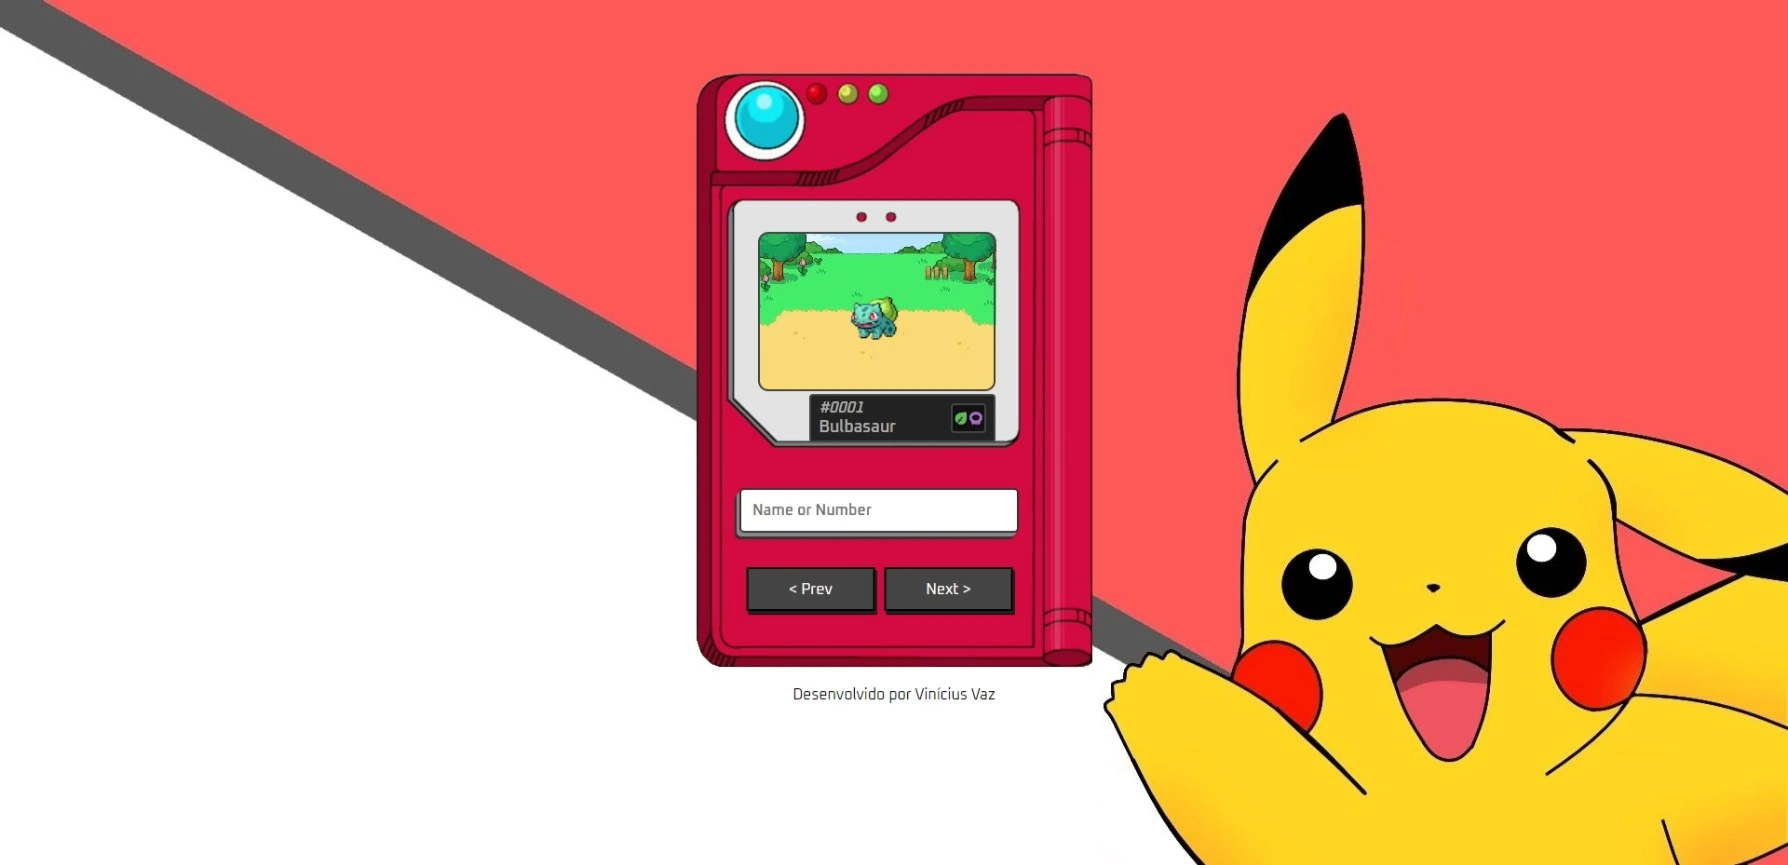
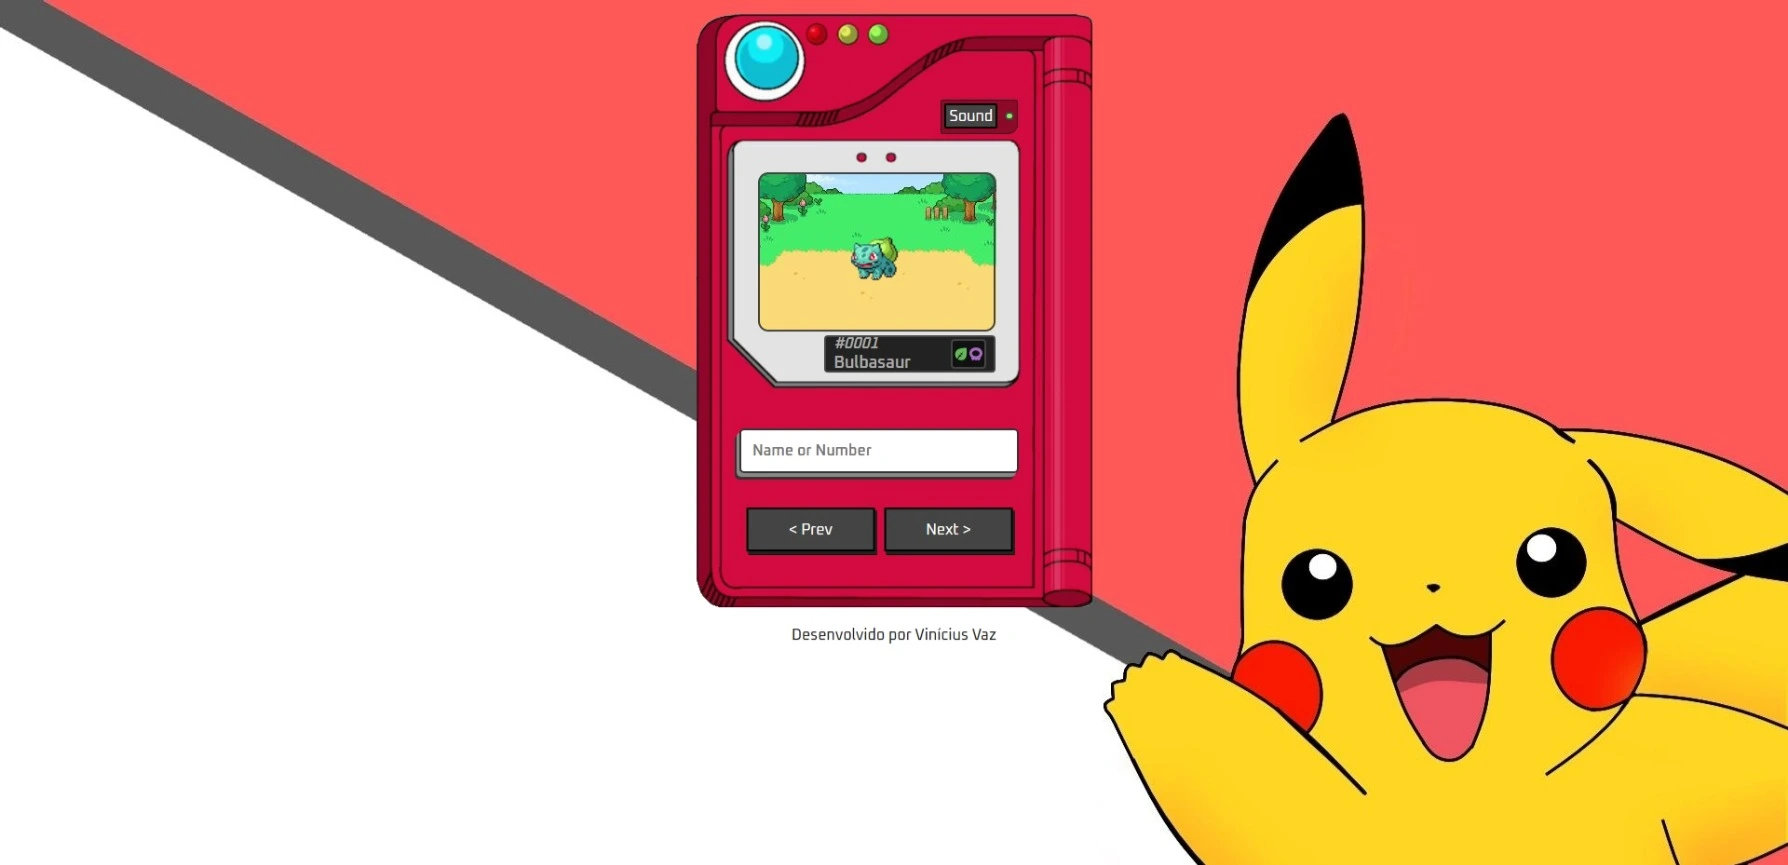
screenshot/readme updated

Changed region(s): [[0.3691, 0.0, 0.6152, 0.8116]]

diff --git a/js/pokedex.js b/js/pokedex.js
@@ -10,10 +10,8 @@ const input = document.querySelector('.input-search');
 const buttonPrev = document.querySelector('.bttn-prev');
 const buttonNext = document.querySelector('.bttn-next');
 
-
 let searchedPokemon;
 let volume = 0.1;
-
 
 const fetchPokemon = async (pokemon) => {
 	const APIResponse = await fetch(
@@ -26,7 +24,6 @@ const fetchPokemon = async (pokemon) => {
 		return data;
 	}
 };
-
 
 const playCrieOnRender = (pokemon) => {
 	let crie = pokemon['cries']['latest'];
@@ -57,7 +54,6 @@ const pokemonNotFounded = () => {
 	pokemonType.textContent = 'x';
 	renderData('xxxx', 'Not found');
 };
-
 
 const renderSprites = (pokemon) => {
 	const sprite = pokemon['sprites']['front_default'];
@@ -102,7 +98,6 @@ const renderPokemon = async (pokemon = 1) => {
 		pokemonNotFounded();
 	}
 };
-
 
 form.addEventListener('submit', (event) => {
 	event.preventDefault();

diff --git a/index.html b/index.html
@@ -56,7 +56,7 @@
     </div>
   </main>
 
-  <footer>Desenvolvido por Vinícius Vaz</footer>
+  <footer><a href="https://github.com/viniciusagvaz">Desenvolvido por Vinícius Vaz</a></footer>
 </body>
 
 </html>

diff --git a/css/pokedex.css b/css/pokedex.css
@@ -199,3 +199,9 @@ main {
 	font-size: 0.9rem;
 	box-shadow: inset -4px -4px 0 #222;
 }
+
+a {
+  color: #222;
+  font-weight: 500;
+  text-decoration: none;
+}

diff --git a/README.md b/README.md
@@ -16,7 +16,8 @@ Made it in Vanilla JavaScript, HTML, and CSS and it was based on _**Manual do De
 *   Search the desired Pokemon by its index number or by original full name
 *   The numbers were formatted to show it's decimals
 *   The cries (sounds) of the Pokemon play as you navigate through the Pokedex list in the same way that it does in the games
-* The Pokedex list is now amplified to the last Pokemon's generation. A total of 1025 can be searched and listed
+*   A turn on/off button was added as well and its status is indicated by the green light when is on (on as a default)
+*   The Pokedex list is now amplified to the last Pokemon's generation. A total of 1025 can be searched
 
 #### My next step is to make a new version of this project using React, Styled Components, and TypeScript with a different layout, and new features such as showing the weakness, strength, resistances between types, movements list besides weight and size average, etc. 
 
@@ -50,6 +51,7 @@ Feito em Vanilla JavaScript, HTML e CSS e foi baseado no projeto original do _**
 * Pesquise o Pokémon desejado pelo número de índice ou pelo nome completo original
 * Os números foram formatados para mostrar seus decimais
 * Os gritos (sons) do Pokémon tocam conforme você navega pela lista Pokedex da mesma forma que nos jogos
+* Um botão liga/desliga também foi adicionado e seu status é indicado pela luz verde quando está ligado (ligado como padrão)
 * A lista Pokedex agora foi ampliada para a última geração de Pokémon. Um total de 1.025 podem ser pesquisados e listados
 
 #### Meu próximo passo é fazer uma nova versão deste projeto usando React, Styled Components e TypeScript com um layout diferente e novas funcionalidades como mostrar fraqueza, força, resistências entre tipos, lista de movimentos além de peso e tamanho média, etc
@@ -65,5 +67,6 @@ Feito em Vanilla JavaScript, HTML e CSS e foi baseado no projeto original do _**
   
 
 #### Este projeto foi feito usando o PokeApi: [https://pokeapi.co/](https://pokeapi.co/)
+
 
 
